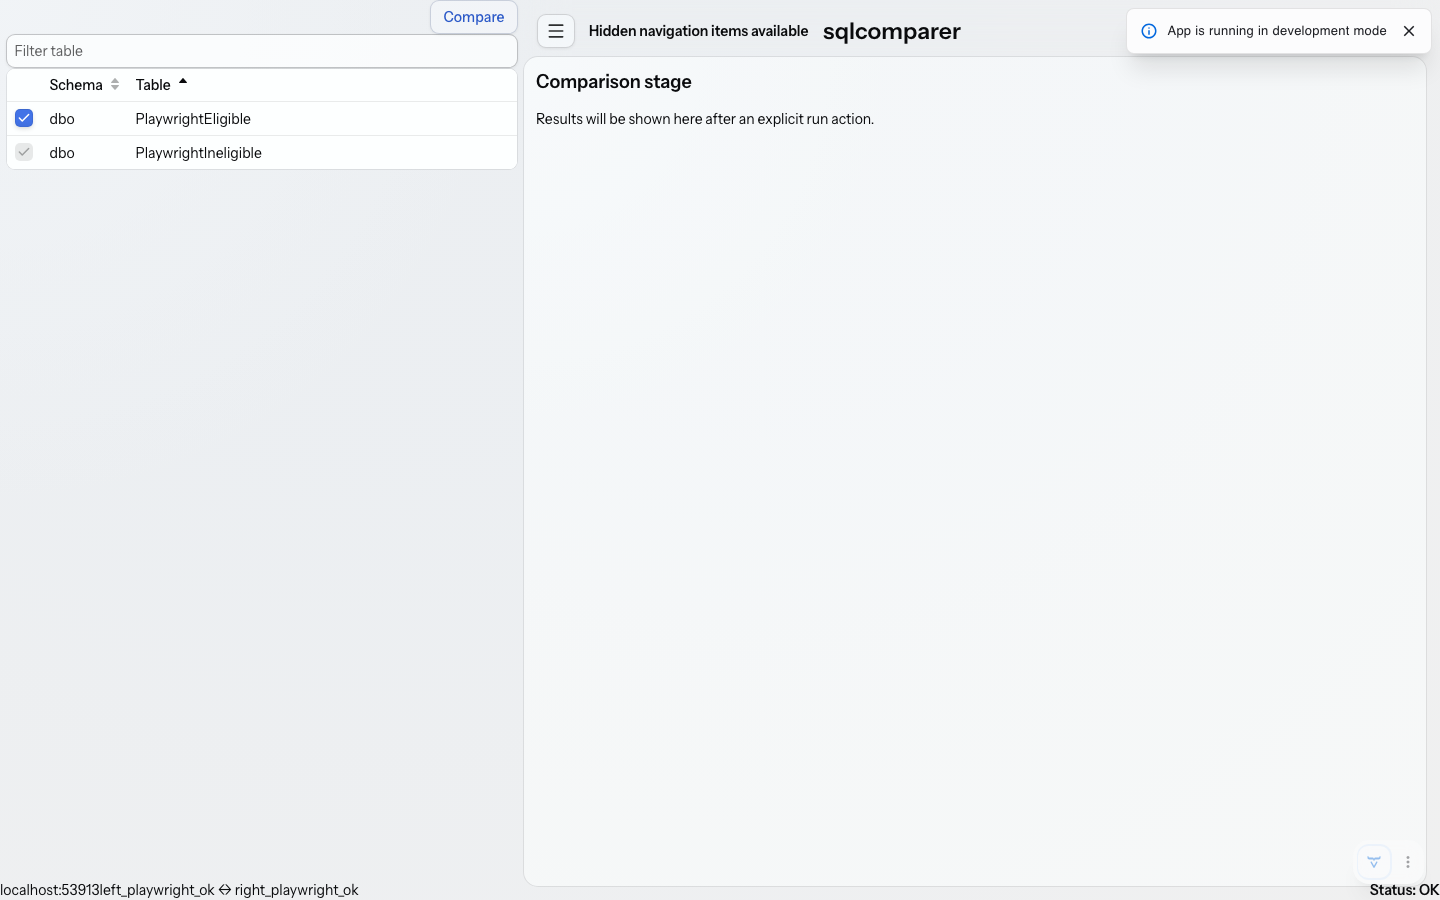
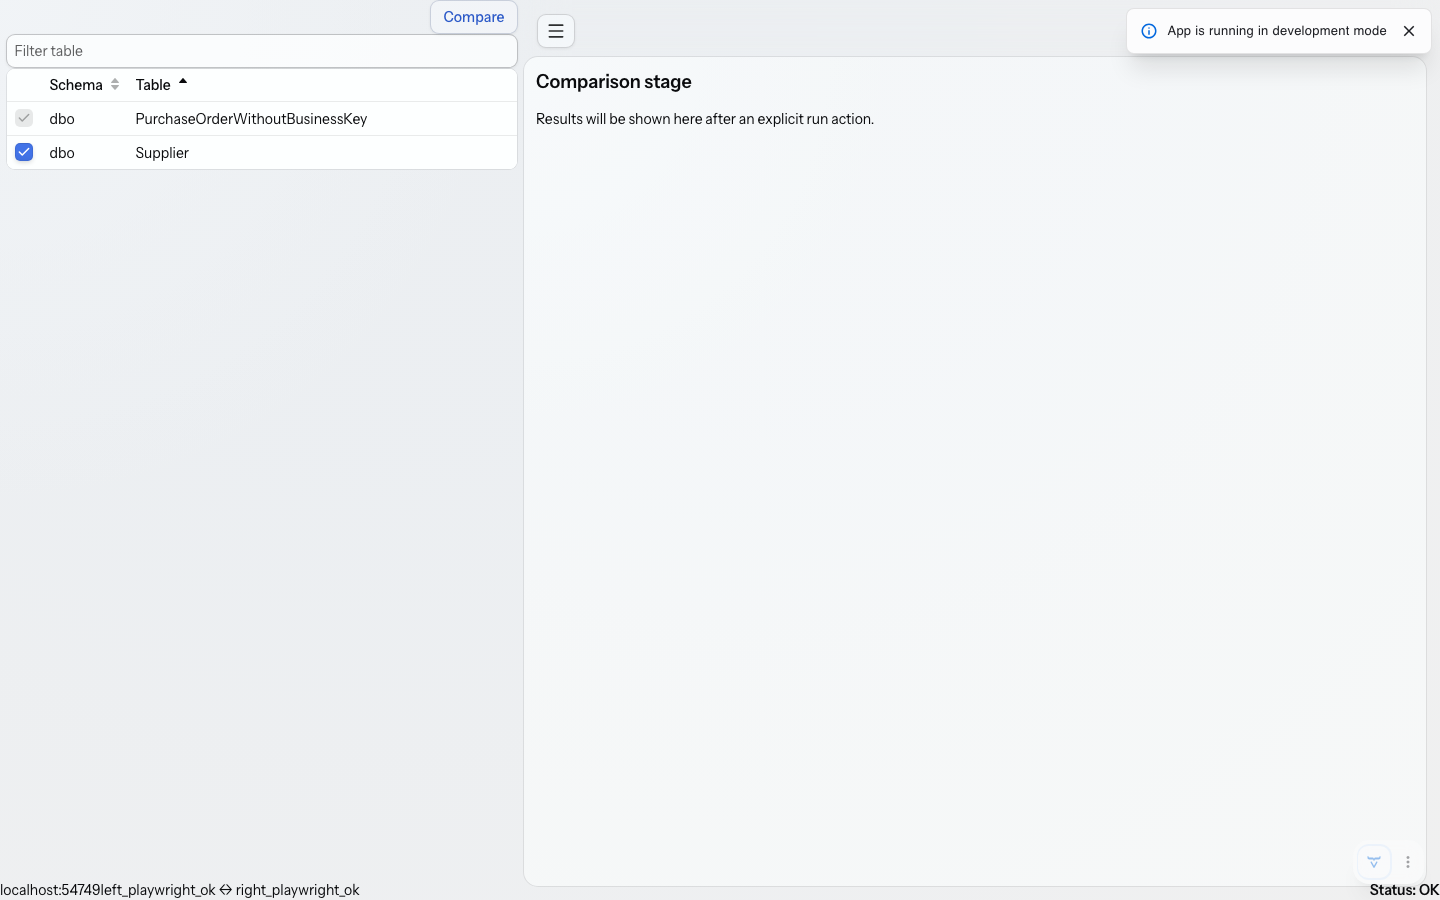
Removes the collapsed-navigation indicator from the UI to simplify the navbar and enhance clarity. Updates Playwright tests to ensure coverage for the collapsed navigation state without requiring persistent labels.

diff --git a/sqlcomparer-webapp/src/main/java/com/danhaywood/sqlcomparer/webapp/ui/MainView.java b/sqlcomparer-webapp/src/main/java/com/danhaywood/sqlcomparer/webapp/ui/MainView.java
@@ -17,7 +17,6 @@ import com.vaadin.flow.component.grid.Grid;
 import com.vaadin.flow.component.grid.ColumnTextAlign;
 import com.vaadin.flow.component.html.Div;
 import com.vaadin.flow.component.html.Footer;
-import com.vaadin.flow.component.html.H2;
 import com.vaadin.flow.component.html.H3;
 import com.vaadin.flow.component.html.Paragraph;
 import com.vaadin.flow.component.html.Span;
@@ -37,7 +36,6 @@ public class MainView extends AppLayout {
 
     private final ManualTableSelectionState selectionState;
     private final Button compareButton = new Button("Compare");
-    private final Span collapsedNavigationIndicator = new Span("Hidden navigation items available");
 
     public MainView(
             final ConnectionValidationStatusHolder statusHolder,
@@ -48,7 +46,7 @@ public class MainView extends AppLayout {
 
         setPrimarySection(Section.DRAWER);
         getElement().setAttribute("data-testid", "main-app-layout");
-        addToNavbar(buildDrawerToggle(), buildCollapsedNavigationIndicator(), buildTitle());
+        addToNavbar(buildDrawerToggle());
         addToDrawer(buildSelectionPanel(tableCatalog));
         setContent(buildMainContent(properties, statusHolder.current()));
     }
@@ -63,28 +61,6 @@ public class MainView extends AppLayout {
         toggle.getElement().setAttribute("data-testid", "hamburger-menu");
         toggle.getElement().setAttribute("title", "Open navigation menu");
         return toggle;
-    }
-
-    private Span buildCollapsedNavigationIndicator() {
-        collapsedNavigationIndicator.getElement().setAttribute("data-testid", "navigation-collapsed-indicator");
-        collapsedNavigationIndicator.getStyle()
-                .set("margin-left", "var(--lumo-space-m)")
-                .set("padding", "0.1rem 0.4rem")
-                .set("border-radius", "var(--lumo-border-radius-s)")
-                .set("background", "var(--lumo-primary-color-10pct)")
-                .set("font-size", "var(--lumo-font-size-xs)")
-                .set("font-weight", "600")
-                .set("display", "inline-flex");
-        return collapsedNavigationIndicator;
-    }
-
-    private H2 buildTitle() {
-        final H2 title = new H2("sqlcomparer");
-        title.getElement().setAttribute("data-testid", "main-shell-header");
-        title.getStyle()
-                .set("margin", "0")
-                .set("padding", "var(--lumo-space-m)");
-        return title;
     }
 
     private VerticalLayout buildMainContent(final WebappComparisonProperties properties, final ConnectionValidationStatus status) {
@@ -112,8 +88,8 @@ public class MainView extends AppLayout {
                 .set("display", "flex")
                 .set("flex-wrap", "wrap")
                 .set("align-items", "center")
-                .set("gap", "var(--lumo-space-l)")
-                .set("padding", "var(--lumo-space-m)")
+                .set("gap", "var(--lumo-space-xl)")
+                .set("padding", "var(--lumo-space-m) var(--lumo-space-l)")
                 .set("background", "var(--lumo-base-color)")
                 .set("border-top", "1px solid var(--lumo-contrast-10pct)")
                 .set("font-size", "var(--lumo-font-size-s)");
@@ -166,7 +142,9 @@ public class MainView extends AppLayout {
         actionBar.getStyle()
                 .set("display", "flex")
                 .set("justify-content", "flex-end")
-                .set("width", "100%");
+                .set("width", "100%")
+                .set("margin-top", "var(--lumo-space-s)")
+                .set("margin-bottom", "var(--lumo-space-xs)");
 
         compareButton.setEnabled(selectionState.isCompareEnabled());
         compareButton.getElement().setAttribute("data-testid", "compare-button");
@@ -269,7 +247,8 @@ public class MainView extends AppLayout {
                 .set("display", "inline-flex")
                 .set("justify-content", "flex-end")
                 .set("align-items", "center")
-                .set("gap", "var(--lumo-space-s)");
+                .set("gap", "var(--lumo-space-m)")
+                .set("padding-left", "var(--lumo-space-m)");
 
         final Span state = new Span("Status: " + status.state());
         state.getElement().setAttribute("data-testid", "connection-status-state");

diff --git a/sqlcomparer-webapp/src/test/java/com/danhaywood/sqlcomparer/webapp/e2e/HomePageConnectionStatusPlaywrightSuccessTest.java b/sqlcomparer-webapp/src/test/java/com/danhaywood/sqlcomparer/webapp/e2e/HomePageConnectionStatusPlaywrightSuccessTest.java
@@ -76,37 +76,36 @@ class HomePageConnectionStatusPlaywrightSuccessTest {
 
             final String initialGridText = page.locator("[data-testid='table-selection-grid']").innerText();
             assertThat(initialGridText).doesNotContain("Eligibility", "Select");
-            assertThat(page.locator("[data-testid='table-checkbox-dbo-playwrightineligible']").getAttribute("disabled")).isNotNull();
-            assertThat(page.locator("[data-testid='table-checkbox-dbo-playwrightineligible']").getAttribute("title")).isNotBlank();
+            assertThat(page.locator("[data-testid='table-checkbox-dbo-purchaseorderwithoutbusinesskey']").getAttribute("disabled")).isNotNull();
+            assertThat(page.locator("[data-testid='table-checkbox-dbo-purchaseorderwithoutbusinesskey']").getAttribute("title")).isNotBlank();
 
             page.screenshot(new Page.ScreenshotOptions().setPath(screenshotPath("webapp-main.png")).setFullPage(true));
 
             page.click("[data-testid='hamburger-menu']");
             page.waitForTimeout(200);
-            assertThat(page.locator("[data-testid='navigation-collapsed-indicator']").isVisible()).isTrue();
             page.screenshot(new Page.ScreenshotOptions().setPath(screenshotPath("webapp-collapsed.png")).setFullPage(true));
 
             page.click("[data-testid='hamburger-menu']");
             page.waitForTimeout(200);
 
             setFilter(page, PlaywrightSqlServerFixture.ELIGIBLE_TABLE);
-            page.waitForFunction("() => document.querySelector('[data-testid=\"table-selection-grid\"]').innerText.includes('PlaywrightEligible') && !document.querySelector('[data-testid=\"table-selection-grid\"]').innerText.includes('PlaywrightIneligible')");
+            page.waitForFunction("() => document.querySelector('[data-testid=\"table-selection-grid\"]').innerText.includes('Supplier') && !document.querySelector('[data-testid=\"table-selection-grid\"]').innerText.includes('PurchaseOrderWithoutBusinessKey')");
             final String filteredText = page.locator("[data-testid='table-selection-grid']").innerText();
-            assertThat(filteredText).contains("PlaywrightEligible");
-            assertThat(filteredText).doesNotContain("PlaywrightIneligible");
+            assertThat(filteredText).contains("Supplier");
+            assertThat(filteredText).doesNotContain("PurchaseOrderWithoutBusinessKey");
 
             setFilter(page, "");
-            page.waitForFunction("() => document.querySelector('[data-testid=\"table-selection-grid\"]').innerText.includes('PlaywrightIneligible')");
+            page.waitForFunction("() => document.querySelector('[data-testid=\"table-selection-grid\"]').innerText.includes('PurchaseOrderWithoutBusinessKey')");
             page.locator("vaadin-grid-sorter[aria-label='Sort by Table']").click();
             page.waitForTimeout(250);
             final String sortedGridText = page.locator("[data-testid='table-selection-grid']").innerText();
-            assertThat(sortedGridText.indexOf("PlaywrightEligible")).isLessThan(sortedGridText.indexOf("PlaywrightIneligible"));
+            assertThat(sortedGridText.indexOf("PurchaseOrderWithoutBusinessKey")).isLessThan(sortedGridText.indexOf("Supplier"));
 
-            toggleCheckbox(page, "[data-testid='table-checkbox-dbo-playwrighteligible']");
+            toggleCheckbox(page, "[data-testid='table-checkbox-dbo-supplier']");
             page.waitForFunction("() => !document.querySelector('[data-testid=\"compare-button\"]').disabled");
             assertThat(page.locator("[data-testid='navigation-compare-action-bar'] [data-testid='compare-button']").isEnabled()).isTrue();
 
-            toggleCheckbox(page, "[data-testid='table-checkbox-dbo-playwrightineligible']");
+            toggleCheckbox(page, "[data-testid='table-checkbox-dbo-purchaseorderwithoutbusinesskey']");
             assertThat(page.locator("[data-testid='navigation-compare-action-bar'] [data-testid='compare-button']").isEnabled()).isTrue();
 
             page.screenshot(new Page.ScreenshotOptions().setPath(screenshotPath("webapp-selected.png")).setFullPage(true));

diff --git a/sqlcomparer-webapp/src/test/java/com/danhaywood/sqlcomparer/webapp/ui/MainViewTest.java b/sqlcomparer-webapp/src/test/java/com/danhaywood/sqlcomparer/webapp/ui/MainViewTest.java
@@ -34,7 +34,7 @@ class MainViewTest {
 
         assertThat(view.getElement().getAttribute("data-testid")).isEqualTo("main-app-layout");
         assertThat(findByTestId(view, "hamburger-menu")).isPresent();
-        assertThat(findByTestId(view, "main-shell-header")).isPresent();
+        assertThat(findByTestId(view, "main-shell-header")).isEmpty();
 
         final Span status = (Span) findByTestId(view, "connection-status-state").orElseThrow();
         assertThat(status.getText()).contains(ConnectionValidationState.OK.name());
@@ -83,7 +83,7 @@ class MainViewTest {
         assertThat(findByTestId(view, "selected-table-feedback")).isEmpty();
         assertThat(findByTestId(view, "apply-table-filter")).isEmpty();
         assertThat(findByTestId(view, "comparison-stage-placeholder")).isPresent();
-        assertThat(findByTestId(view, "navigation-collapsed-indicator")).isPresent();
+        assertThat(findByTestId(view, "navigation-collapsed-indicator")).isEmpty();
     }
 
     private Optional<Component> findByTestId(final Component root, final String testId) {

diff --git a/sqlcomparer-webapp/src/test/java/com/danhaywood/sqlcomparer/webapp/e2e/PlaywrightSqlServerFixture.java b/sqlcomparer-webapp/src/test/java/com/danhaywood/sqlcomparer/webapp/e2e/PlaywrightSqlServerFixture.java
@@ -10,8 +10,8 @@ import java.sql.Statement;
 
 final class PlaywrightSqlServerFixture {
 
-    static final String ELIGIBLE_TABLE = "PlaywrightEligible";
-    static final String INELIGIBLE_TABLE = "PlaywrightIneligible";
+    static final String ELIGIBLE_TABLE = "Supplier";
+    static final String INELIGIBLE_TABLE = "PurchaseOrderWithoutBusinessKey";
 
     private static final MSSQLServerContainer<?> SQL_SERVER = new MSSQLServerContainer<>(
             DockerImageName.parse("mcr.microsoft.com/mssql/server:2022-latest"))

diff --git a/openspec/changes/refine-main-ui-layout-and-table-grid/design.md b/openspec/changes/refine-main-ui-layout-and-table-grid/design.md
@@ -3,7 +3,7 @@
 The Vaadin webapp already supports manual table selection, connectivity status, and comparison execution.
 Recent UI changes introduced a navigation area and screenshots, but interaction priorities are still unclear in the main screen.
 The Compare action is not visually anchored near primary navigation context, footer labels add noise, and table column behavior is not optimized for readability.
-Playwright screenshot expectations currently cover existing expanded state presentation but do not sufficiently communicate collapsed-navigation affordance.
+Playwright screenshot expectations currently cover existing expanded state presentation but need refreshed coverage for the collapsed-navigation visual state.
 The design must keep existing comparison behavior intact while improving layout, clarity, and screenshot coverage.
 
 ## Goals / Non-Goals
@@ -12,13 +12,13 @@ The design must keep existing comparison behavior intact while improving layout,
 - Place the Compare action in the navigation/menu region above the table and right-aligned.
 - Simplify footer/status rendering by removing redundant labels, adding spacing, and right-aligning the status indicator.
 - Improve table readability by auto-sizing schema column width and center-aligning selection controls without `Select` header text.
-- Provide a clear collapsed-navigation affordance indicating hidden actions/content.
+- Capture and verify a stable collapsed-navigation visual state in screenshots.
 - Refresh Playwright screenshots for updated expanded and collapsed navigation states.
 
 **Non-Goals:**
 - No change to comparison backend logic, datasource behavior, or selection-plan semantics.
 - No redesign of business-key eligibility rules beyond layout/presentation updates.
-- No introduction of new navigation features beyond visual affordance for collapsed state.
+- No introduction of new persistent navigation labels or badges in the navbar.
 
 ## Decisions
 
@@ -34,10 +34,10 @@ The design must keep existing comparison behavior intact while improving layout,
   - Rationale: schema values vary in length and selection controls are visually cleaner when centered under an unlabeled utility column.
   - Alternative considered: fixed schema width and existing `Select` header.
   - Rejected because it wastes space and adds redundant header noise.
-- Add a collapsed-navigation indicator element, such as a badge, icon, or hint marker on the collapse toggle region.
-  - Rationale: users need a visible cue that hidden actions remain accessible when collapsed.
-  - Alternative considered: no additional cue.
-  - Rejected because discoverability drops when navigation is collapsed.
+- Keep the navbar minimal by removing the experimental collapsed-state label and relying on drawer behavior plus screenshot coverage.
+  - Rationale: the label added noise and did not improve usability in practice.
+  - Alternative considered: keep persistent collapsed-state text.
+  - Rejected because it distracted from primary actions.
 - Update Playwright screenshot generation/approval files to include collapsed-navigation capture and revised expanded layout.
   - Rationale: protects the intended UX contract and avoids regressions in future UI updates.
 
@@ -54,5 +54,5 @@ The design must keep existing comparison behavior intact while improving layout,
 
 ## Implementation note
 
-The collapsed-navigation affordance is implemented as a persistent navbar hint so the hidden-navigation cue remains visible across viewport modes.
-This slightly exceeds the original collapsed-only intent, but improves discoverability and keeps Playwright assertions deterministic across environments.
+The experimental collapsed-state navbar hint was removed after review because it added clutter without improving interaction clarity.
+Collapsed-state behavior is still covered by deterministic Playwright screenshots.

diff --git a/openspec/changes/refine-main-ui-layout-and-table-grid/specs/webapp-playwright-connectivity-status/spec.md b/openspec/changes/refine-main-ui-layout-and-table-grid/specs/webapp-playwright-connectivity-status/spec.md
@@ -5,7 +5,7 @@ The project SHALL provide headless Playwright tests for webapp home-page SQL con
 Playwright tests SHALL verify both success and failure status rendering on the home page.
 Playwright tests SHALL verify manual table-selection behavior including checkbox toggling, disabled ineligible tables, and omission of redundant selection labels.
 Playwright tests SHALL verify the happy path for the AppLayout shell, connection-details and status footer/status bar, navigation-area table-selection Grid sorting and filtering, ineligible non-selectable rows, and right-aligned navigation-area `Compare` button enablement.
-Playwright tests SHALL validate presence of a collapsed-navigation affordance when the navigation panel is collapsed.
+Playwright tests SHALL validate collapsed-navigation state behavior without requiring persistent collapsed-state labels.
 Playwright tests SHALL refresh screenshot baselines for the updated expanded navigation layout.
 Playwright tests SHALL include a screenshot baseline for the collapsed navigation state.
 Playwright tests SHALL run against Testcontainers-provisioned SQL Server scenarios to preserve reproducibility.
@@ -32,4 +32,4 @@ Playwright tests SHALL run against Testcontainers-provisioned SQL Server scenari
 
 #### Scenario: Playwright captures collapsed navigation screenshot
 - **WHEN** a headless Playwright test collapses the navigation panel
-- **THEN** the test captures a baseline screenshot that includes the collapsed-navigation hidden-content affordance
+- **THEN** the test captures a baseline screenshot for the collapsed navigation state

diff --git a/openspec/changes/refine-main-ui-layout-and-table-grid/proposal.md b/openspec/changes/refine-main-ui-layout-and-table-grid/proposal.md
@@ -9,7 +9,7 @@ The Compare action placement, footer/status formatting, and table column present
 - Refine the footer/status bar by removing redundant labels, adding spacing, and right-aligning the `Status: OK` indicator.
 - Improve table grid presentation by auto-sizing the schema column, center-aligning the select column, and removing `Select` header text.
 - Refresh UI screenshots to reflect the updated layout and add a screenshot with the navigation bar collapsed.
-- Add a collapsed-navigation affordance so users can see there is hidden content/actions when the navigation area is collapsed.
+- Capture and verify the collapsed-navigation visual state in screenshots without introducing new persistent navigation labels.
 
 ## Capabilities
 
@@ -20,7 +20,7 @@ The Compare action placement, footer/status formatting, and table column present
 ### Modified Capabilities
 
 - `vaadin-webapp-configuration`: Update page-level layout and positioning rules for compare actions and status presentation.
-- `webapp-main-ui-layout`: Update top-level UI composition behavior for toolbar/menu placement and collapsed-navigation affordance.
+- `webapp-main-ui-layout`: Update top-level UI composition behavior for toolbar/menu placement and removal of redundant navbar labeling.
 - `webapp-manual-table-selection`: Update grid column behavior for schema auto-sizing and select-column header/alignment.
 - `webapp-playwright-connectivity-status`: Refresh screenshot and visual-regression expectations for expanded and collapsed navigation states.
 

diff --git a/openspec/changes/refine-main-ui-layout-and-table-grid/specs/webapp-main-ui-layout/spec.md b/openspec/changes/refine-main-ui-layout-and-table-grid/specs/webapp-main-ui-layout/spec.md
@@ -6,7 +6,7 @@ The hamburger menu control SHALL have a deterministic accessible label suitable 
 The shell SHALL place table-selection functionality in the AppLayout navigation area.
 The shell SHALL place primary selection-stage actions in the navigation area above the table-selection grid.
 The shell SHALL preserve the existing main content area for comparison-stage functionality.
-The shell SHALL provide a visual collapsed-navigation affordance indicating hidden actions or content remain available.
+The shell SHALL keep the navbar minimal without persistent collapsed-state labels.
 
 #### Scenario: Hamburger menu is available
 - **WHEN** the home page is rendered
@@ -16,9 +16,9 @@ The shell SHALL provide a visual collapsed-navigation affordance indicating hidd
 - **WHEN** the main UI shell is rendered
 - **THEN** the comparison-stage region remains visible in the content area and the table-selection region remains visible in the navigation area
 
-#### Scenario: Collapsed navigation shows hidden-content affordance
+#### Scenario: Collapsed navigation keeps minimal navbar
 - **WHEN** the navigation panel is collapsed
-- **THEN** the UI shows an indicator that actions or content are available in the collapsed navigation area
+- **THEN** the navbar does not add persistent collapsed-state labels
 
 ### Requirement: Comparison area exposes a placeholder compare action
 The webapp SHALL provide a `Compare` button in the navigation-area selection stage.

diff --git a/openspec/changes/refine-main-ui-layout-and-table-grid/tasks.md b/openspec/changes/refine-main-ui-layout-and-table-grid/tasks.md
@@ -2,7 +2,7 @@
 
 - [x] 1.1 Move the `Compare` button into the AppLayout navigation area and render it above the table-selection grid.
 - [x] 1.2 Right-align the navigation-area compare action row and preserve current enable/disable behavior based on eligible selections.
-- [x] 1.3 Add a collapsed-navigation affordance indicating hidden actions/content remain available when the drawer is collapsed.
+- [x] 1.3 Remove the experimental collapsed-navigation label and keep the navbar minimal.
 
 ## 2. Footer/status bar improvements
 
@@ -22,7 +22,7 @@
 
 - [x] 4.1 Update Playwright assertions for the compare action position in the navigation panel and updated footer alignment.
 - [x] 4.2 Refresh baseline screenshot assets for the expanded navigation state.
-- [x] 4.3 Add a collapsed-navigation screenshot baseline and assertion for hidden-content affordance visibility.
+- [x] 4.3 Add a collapsed-navigation screenshot baseline and assertion for collapsed drawer state visibility.
 - [x] 4.4 Run headless Playwright tests and update approval artifacts for deterministic CI execution.
 
 ## 5. Validation and readiness checks

diff --git a/README.md b/README.md
@@ -149,9 +149,9 @@ After selecting an eligible table, the navigation-area `Compare` button is enabl
 
 ![Webapp table selection with Compare enabled](docs/images/webapp-selected.png)
 
-When the navigation drawer is collapsed, a collapsed-state indicator shows that hidden navigation items remain available:
+When the navigation drawer is collapsed, the collapsed state is captured for visual regression coverage:
 
-![Webapp with collapsed navigation indicator](docs/images/webapp-collapsed.png)
+![Webapp with collapsed navigation](docs/images/webapp-collapsed.png)
 
 Table selection remains strategy-driven via `SelectionPlan` and is intentionally decoupled from CLI table flags.
 This manual panel is the first user-facing stage and is designed to evolve toward auto-selection plus manual include/exclude overrides.
